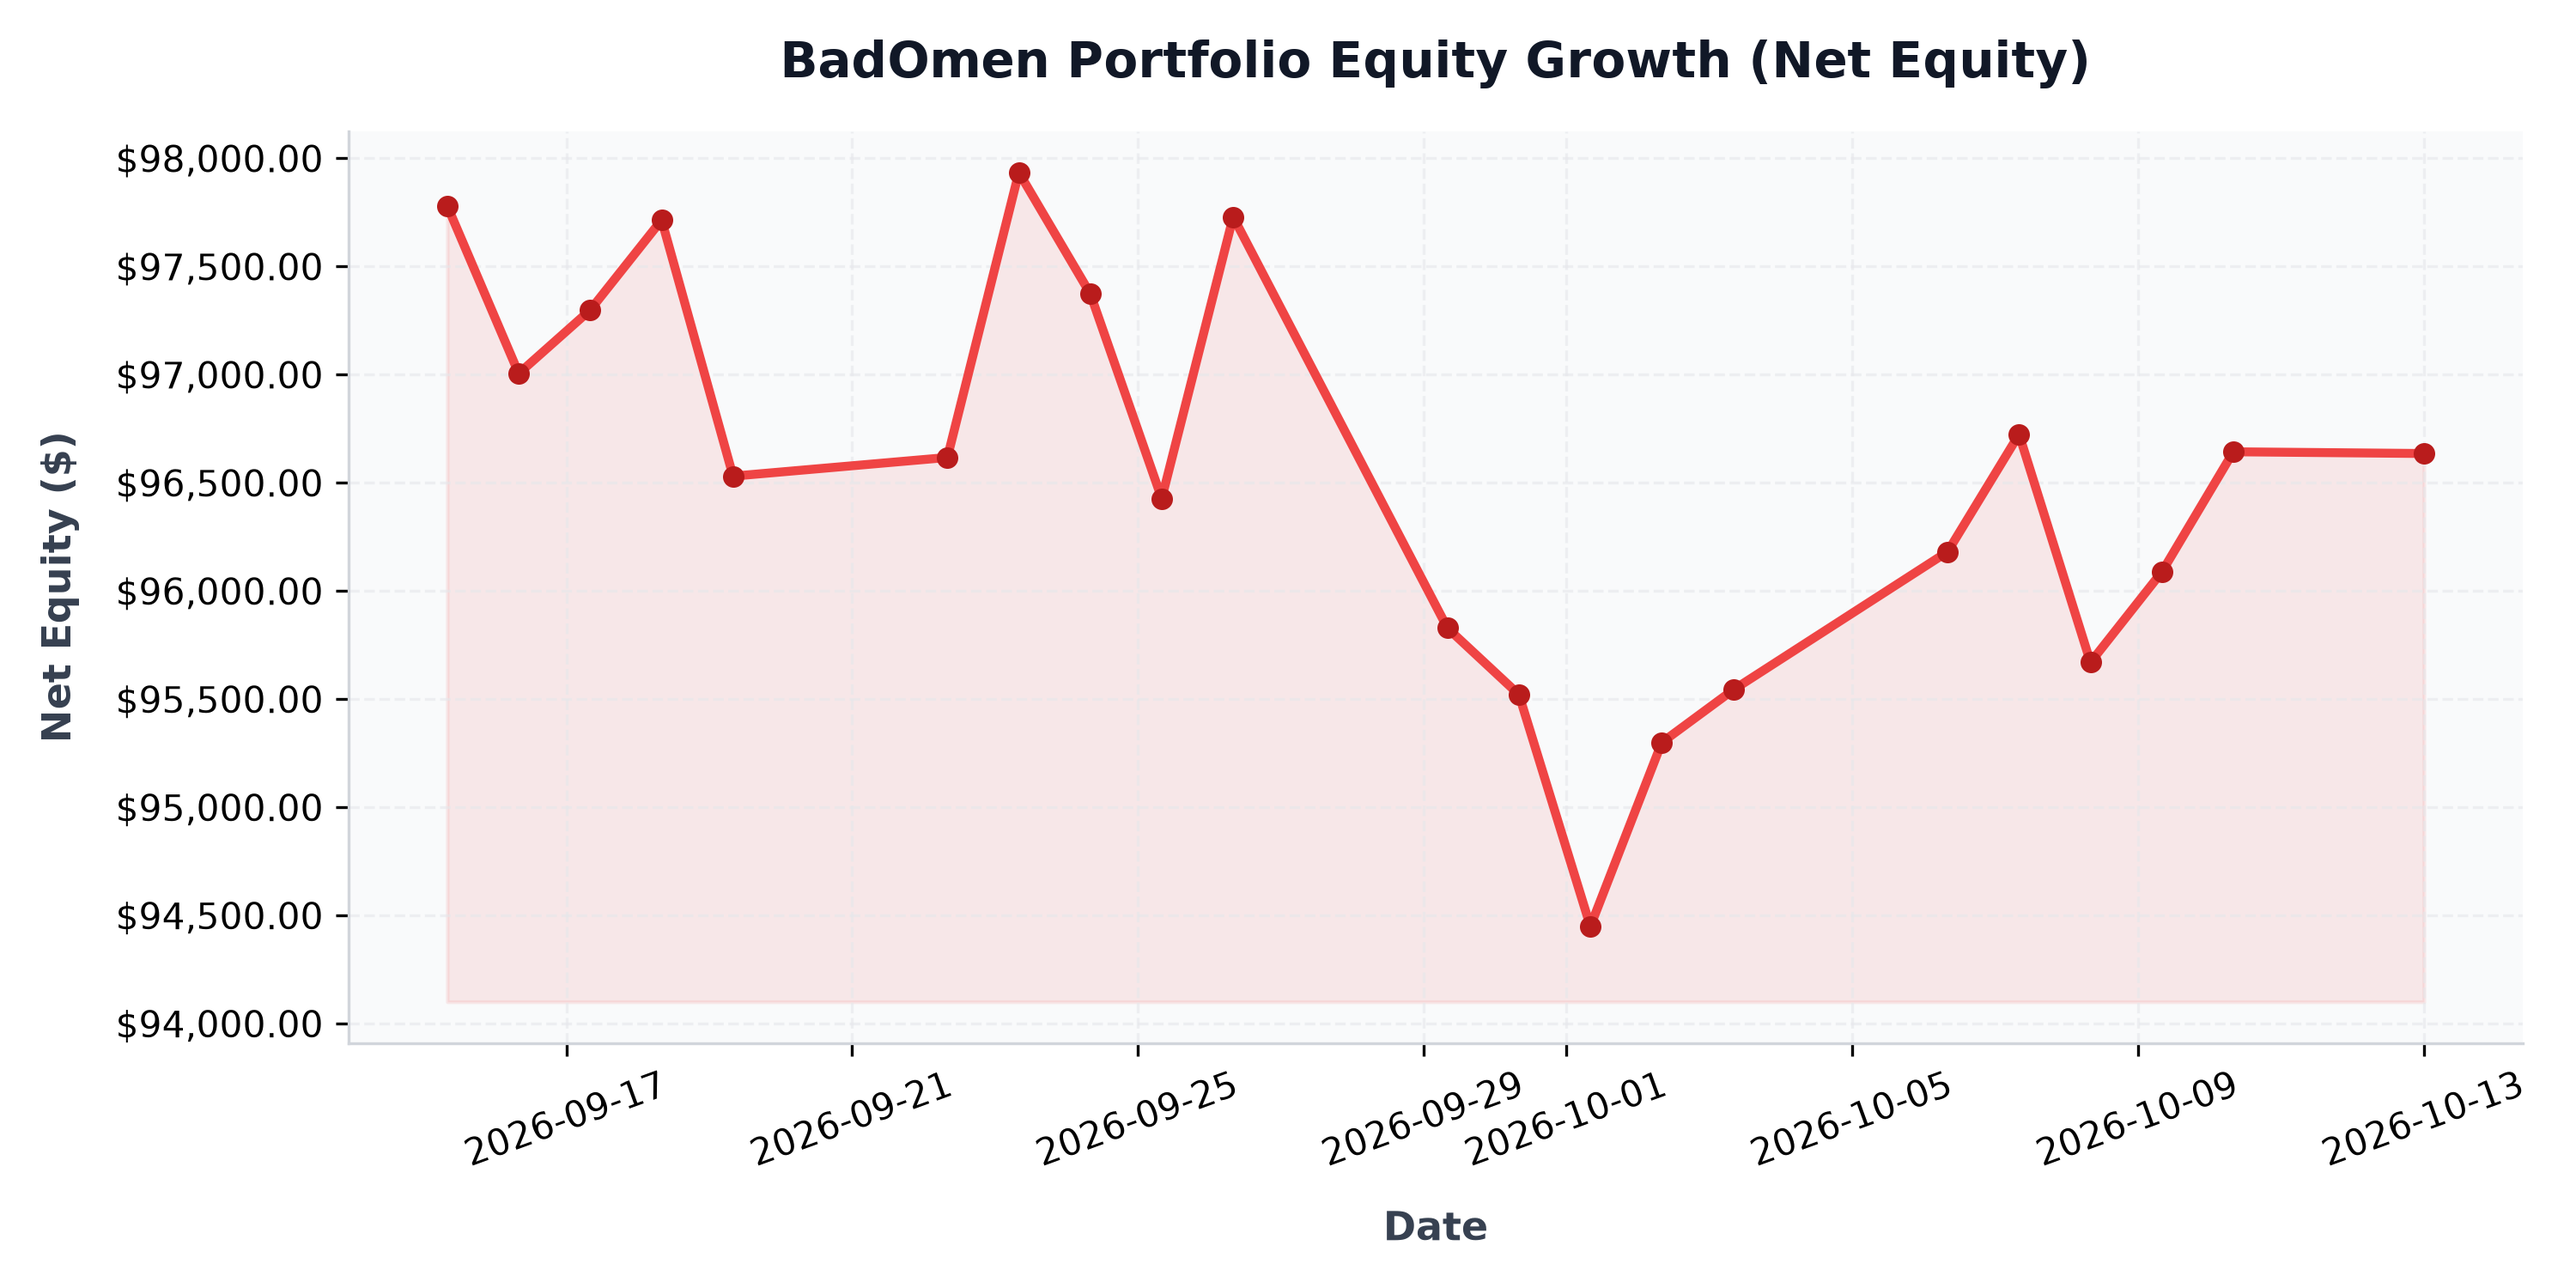
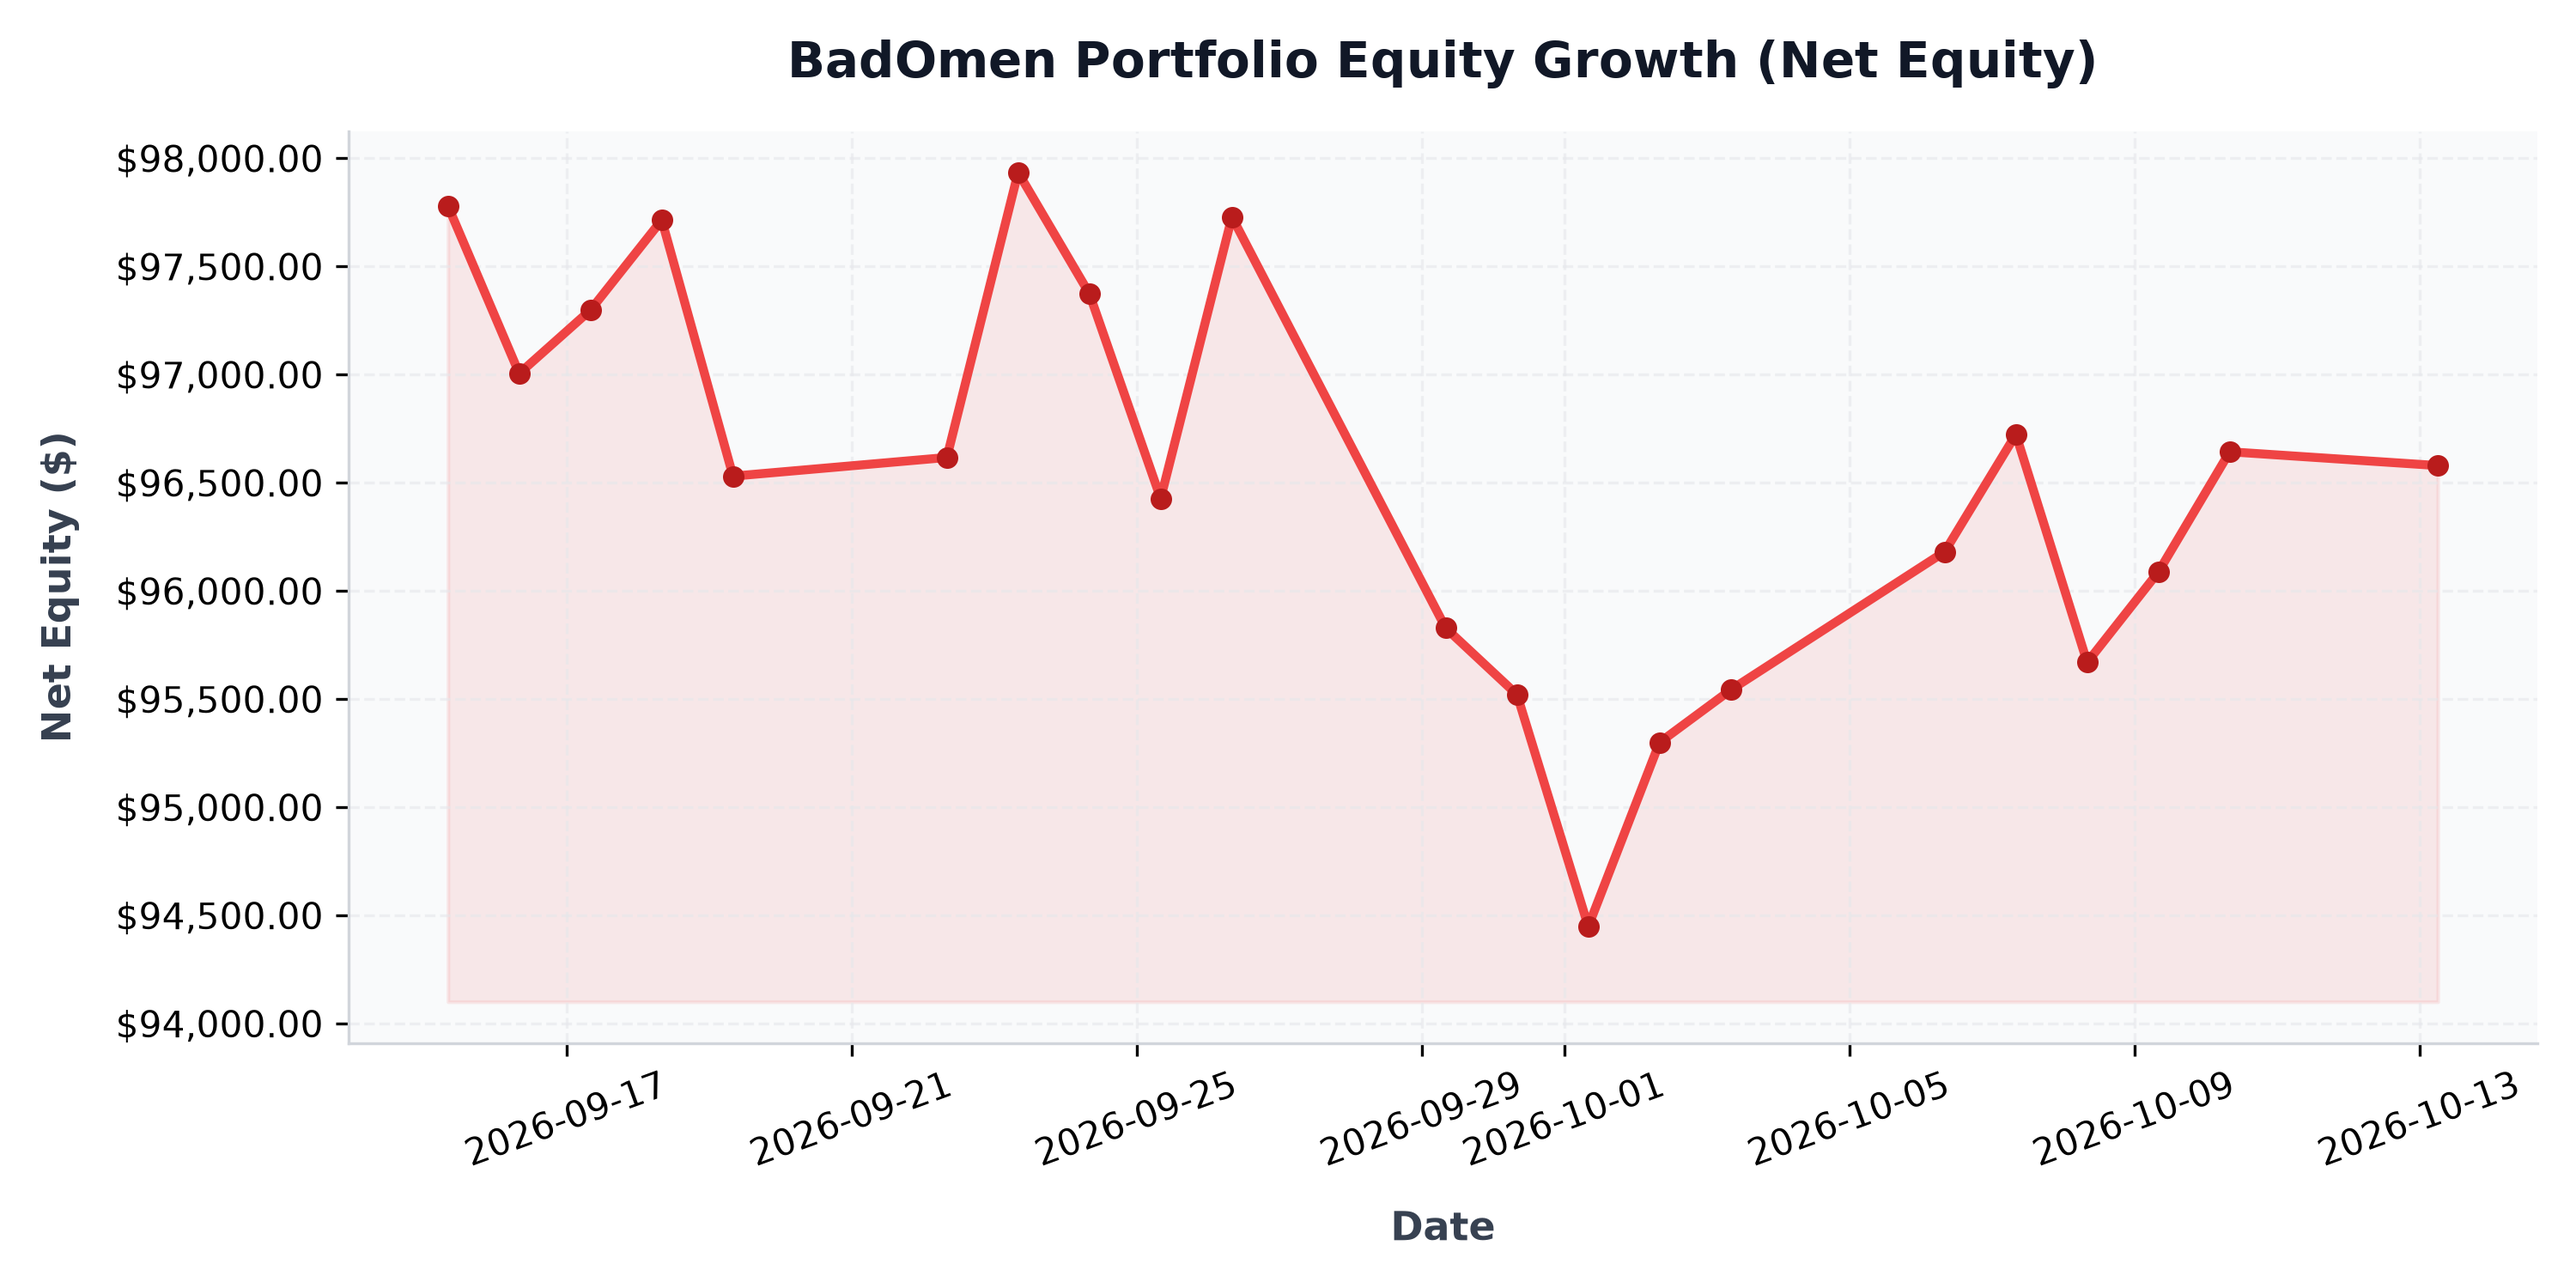
auto: daily portfolio status update - 2026-10-13 06:05:13

diff --git a/src/content/posts/portfolio-performance.md b/src/content/posts/portfolio-performance.md
@@ -1,6 +1,6 @@
 ---
 title: "BadOmen Algorithmic Portfolio Performance & PnL Report"
-pubDatetime: 2026-10-13T00:00:15.933798+08:00
+pubDatetime: 2026-10-13T06:05:13.700165+08:00
 description: "Live performance metrics, active holdings, and historic equity curve for the BadOmen automated paper trading portfolio."
 featured: true
 draft: false
@@ -16,11 +16,11 @@ Welcome to the live performance dashboard for **BadOmen**, our automated algorit
 ## 📊 Portfolio Summary
 | Performance Metric | Value | description |
 | :--- | :--- | :--- |
-| **Net Portfolio Equity** | **$96,635.73** | Total current liquidation value of cash and stock holdings |
-| **Total Unrealized P&L** | 🔴 **$-4,416.30** (-4.37%) | Total return of current open holdings |
+| **Net Portfolio Equity** | **$96,580.02** | Total current liquidation value of cash and stock holdings |
+| **Total Unrealized P&L** | 🔴 **$-4,472.31** (-4.43%) | Total return of current open holdings |
 | **Cash Balance** | $24,224.56 | Idle reserve currency available for limit orders |
-| **Buying Power** | $299,649.51 | Margin-backed buying power for entry allocations |
-| **Report Updated** | `2026-10-13 00:00:15 (SGT)` | Timestamp of daily execution and sync run |
+| **Buying Power** | $299,493.54 | Margin-backed buying power for entry allocations |
+| **Report Updated** | `2026-10-13 06:05:13 (SGT)` | Timestamp of daily execution and sync run |
 
 ## 📈 Net Equity Growth Curve
 The chart below illustrates the historical performance of the account starting from our baseline capital funding of $100,000.00.
@@ -35,35 +35,35 @@ The chart below illustrates the exposure of our currently held active positions 
 ## 💼 Current Position Holdings
 | Ticker | Industry | Shares Owned | Average Entry Cost | Current Price | Unrealized P&L | Return (%) |
 | :--- | :--- | :--- | :--- | :--- | :--- | :--- |
-| **AN** | Auto & Truck Dealerships | 5 | $188.51 | $157.00 | 🔴 $-157.51 | -16.71% |
-| **AVGO** | Semiconductors | 1 | $385.71 | $357.26 | 🔴 $-28.45 | -7.38% |
-| **BIRK** | Footwear & Accessories | 407 | $37.32 | $33.71 | 🔴 $-1,468.34 | -9.67% |
-| **BLBD** | Farm & Heavy Construction Machinery | 231 | $65.52 | $56.57 | 🔴 $-2,066.52 | -13.66% |
-| **BVN** | Other Precious Metals & Mining | 32 | $31.88 | $32.44 | 🟢 +$17.92 | +1.76% |
-| **CELH** | Beverages - Non-Alcoholic | 33 | $29.71 | $28.44 | 🔴 $-42.00 | -4.28% |
-| **CPRI** | Luxury Goods | 1042 | $14.55 | $15.10 | 🟢 +$571.22 | +3.77% |
-| **DUOL** | Software - Application | 14 | $131.04 | $149.39 | 🟢 +$256.84 | +14.00% |
-| **FIS** | Information Technology Services | 23 | $41.79 | $33.93 | 🔴 $-180.78 | -18.81% |
-| **GDDY** | Software - Infrastructure | 6 | $76.21 | $102.05 | 🟢 +$155.04 | +33.91% |
-| **GDS** | Information Technology Services | 30 | $32.77 | $30.00 | 🔴 $-82.95 | -8.44% |
-| **GGAL** | Banks - Regional | 17 | $56.04 | $37.00 | 🔴 $-323.67 | -33.98% |
-| **GOOGL** | Internet Content & Information | 3 | $319.44 | $354.50 | 🟢 +$105.19 | +10.98% |
-| **GPI** | Auto & Truck Dealerships | 3 | $316.15 | $229.19 | 🔴 $-260.88 | -27.51% |
-| **HUBS** | Software - Application | 8 | $221.18 | $223.19 | 🟢 +$16.11 | +0.91% |
-| **ITRI** | Scientific & Technical Instruments | 12 | $81.80 | $85.35 | 🟢 +$42.60 | +4.34% |
-| **KBR** | Engineering & Construction | 27 | $36.23 | $35.61 | 🔴 $-16.82 | -1.72% |
-| **NESR** | Oil & Gas Equipment & Services | 34 | $28.74 | $21.79 | 🔴 $-236.47 | -24.20% |
-| **NU** | Banks - Regional | 57 | $11.60 | $16.09 | 🟢 +$256.30 | +38.77% |
-| **ON** | Semiconductors | 10 | $90.45 | $77.07 | 🔴 $-133.85 | -14.80% |
-| **ORCL** | Software - Infrastructure | 5 | $181.95 | $137.87 | 🔴 $-220.40 | -24.23% |
-| **PATH** | Software - Infrastructure | 38 | $10.25 | $13.20 | 🟢 +$111.91 | +28.73% |
-| **PYPL** | Credit Services | 17 | $56.05 | $55.96 | 🔴 $-1.53 | -0.16% |
-| **QCOM** | Semiconductors | 15 | $193.68 | $174.47 | 🔴 $-288.15 | -9.92% |
-| **SMCI** | Computer Hardware | 22 | $29.25 | $39.57 | 🟢 +$227.04 | +35.28% |
-| **SRE** | Utilities - Diversified | 57 | $84.75 | $81.48 | 🔴 $-186.24 | -3.85% |
-| **T** | Telecom Services | 47 | $20.85 | $22.27 | 🟢 +$66.97 | +6.83% |
-| **WEN** | Restaurants | 257 | $8.02 | $6.16 | 🔴 $-480.26 | -23.29% |
-| **ZG** | Internet Content & Information | 31 | $31.35 | $29.14 | 🔴 $-68.61 | -7.06% |
+| **AN** | Auto & Truck Dealerships | 5 | $188.51 | $155.44 | 🔴 $-165.34 | -17.54% |
+| **AVGO** | Semiconductors | 1 | $385.71 | $354.80 | 🔴 $-30.91 | -8.01% |
+| **BIRK** | Footwear & Accessories | 407 | $37.32 | $33.85 | 🔴 $-1,411.36 | -9.29% |
+| **BLBD** | Farm & Heavy Construction Machinery | 231 | $65.52 | $56.29 | 🔴 $-2,131.20 | -14.08% |
+| **BVN** | Other Precious Metals & Mining | 32 | $31.88 | $32.30 | 🟢 +$13.60 | +1.33% |
+| **CELH** | Beverages - Non-Alcoholic | 33 | $29.71 | $28.39 | 🔴 $-43.65 | -4.45% |
+| **CPRI** | Luxury Goods | 1042 | $14.55 | $15.09 | 🟢 +$560.80 | +3.70% |
+| **DUOL** | Software - Application | 14 | $131.04 | $147.74 | 🟢 +$233.74 | +12.74% |
+| **FIS** | Information Technology Services | 23 | $41.79 | $34.25 | 🔴 $-173.42 | -18.04% |
+| **GDDY** | Software - Infrastructure | 6 | $76.21 | $102.37 | 🟢 +$156.96 | +34.33% |
+| **GDS** | Information Technology Services | 30 | $32.77 | $30.39 | 🔴 $-71.40 | -7.26% |
+| **GGAL** | Banks - Regional | 17 | $56.04 | $36.78 | 🔴 $-327.41 | -34.37% |
+| **GOOGL** | Internet Content & Information | 3 | $319.44 | $353.23 | 🟢 +$101.37 | +10.58% |
+| **GPI** | Auto & Truck Dealerships | 3 | $316.15 | $229.64 | 🔴 $-259.53 | -27.36% |
+| **HUBS** | Software - Application | 8 | $221.18 | $223.40 | 🟢 +$17.75 | +1.00% |
+| **ITRI** | Scientific & Technical Instruments | 12 | $81.80 | $85.57 | 🟢 +$45.24 | +4.61% |
+| **KBR** | Engineering & Construction | 27 | $36.23 | $35.19 | 🔴 $-28.16 | -2.88% |
+| **NESR** | Oil & Gas Equipment & Services | 34 | $28.74 | $20.76 | 🔴 $-271.32 | -27.77% |
+| **NU** | Banks - Regional | 57 | $11.60 | $15.99 | 🟢 +$250.31 | +37.86% |
+| **ON** | Semiconductors | 10 | $90.45 | $75.89 | 🔴 $-145.65 | -16.10% |
+| **ORCL** | Software - Infrastructure | 5 | $181.95 | $137.10 | 🔴 $-224.25 | -24.65% |
+| **PATH** | Software - Infrastructure | 38 | $10.25 | $13.26 | 🟢 +$114.38 | +29.37% |
+| **PYPL** | Credit Services | 17 | $56.05 | $55.57 | 🔴 $-8.09 | -0.85% |
+| **QCOM** | Semiconductors | 15 | $193.68 | $174.00 | 🔴 $-295.27 | -10.16% |
+| **SMCI** | Computer Hardware | 22 | $29.25 | $39.77 | 🟢 +$231.44 | +35.97% |
+| **SRE** | Utilities - Diversified | 57 | $84.75 | $81.88 | 🔴 $-163.73 | -3.39% |
+| **T** | Telecom Services | 47 | $20.85 | $22.46 | 🟢 +$75.78 | +7.73% |
+| **WEN** | Restaurants | 257 | $8.02 | $6.31 | 🔴 $-440.43 | -21.36% |
+| **ZG** | Internet Content & Information | 31 | $31.35 | $28.69 | 🔴 $-82.56 | -8.49% |
 
 ## 🔴 Recent Realized Trades
 | Ticker | Shares Sold | Entry Price | Exit Price | Strategy Trigger | Realized Return | Exit Date |
